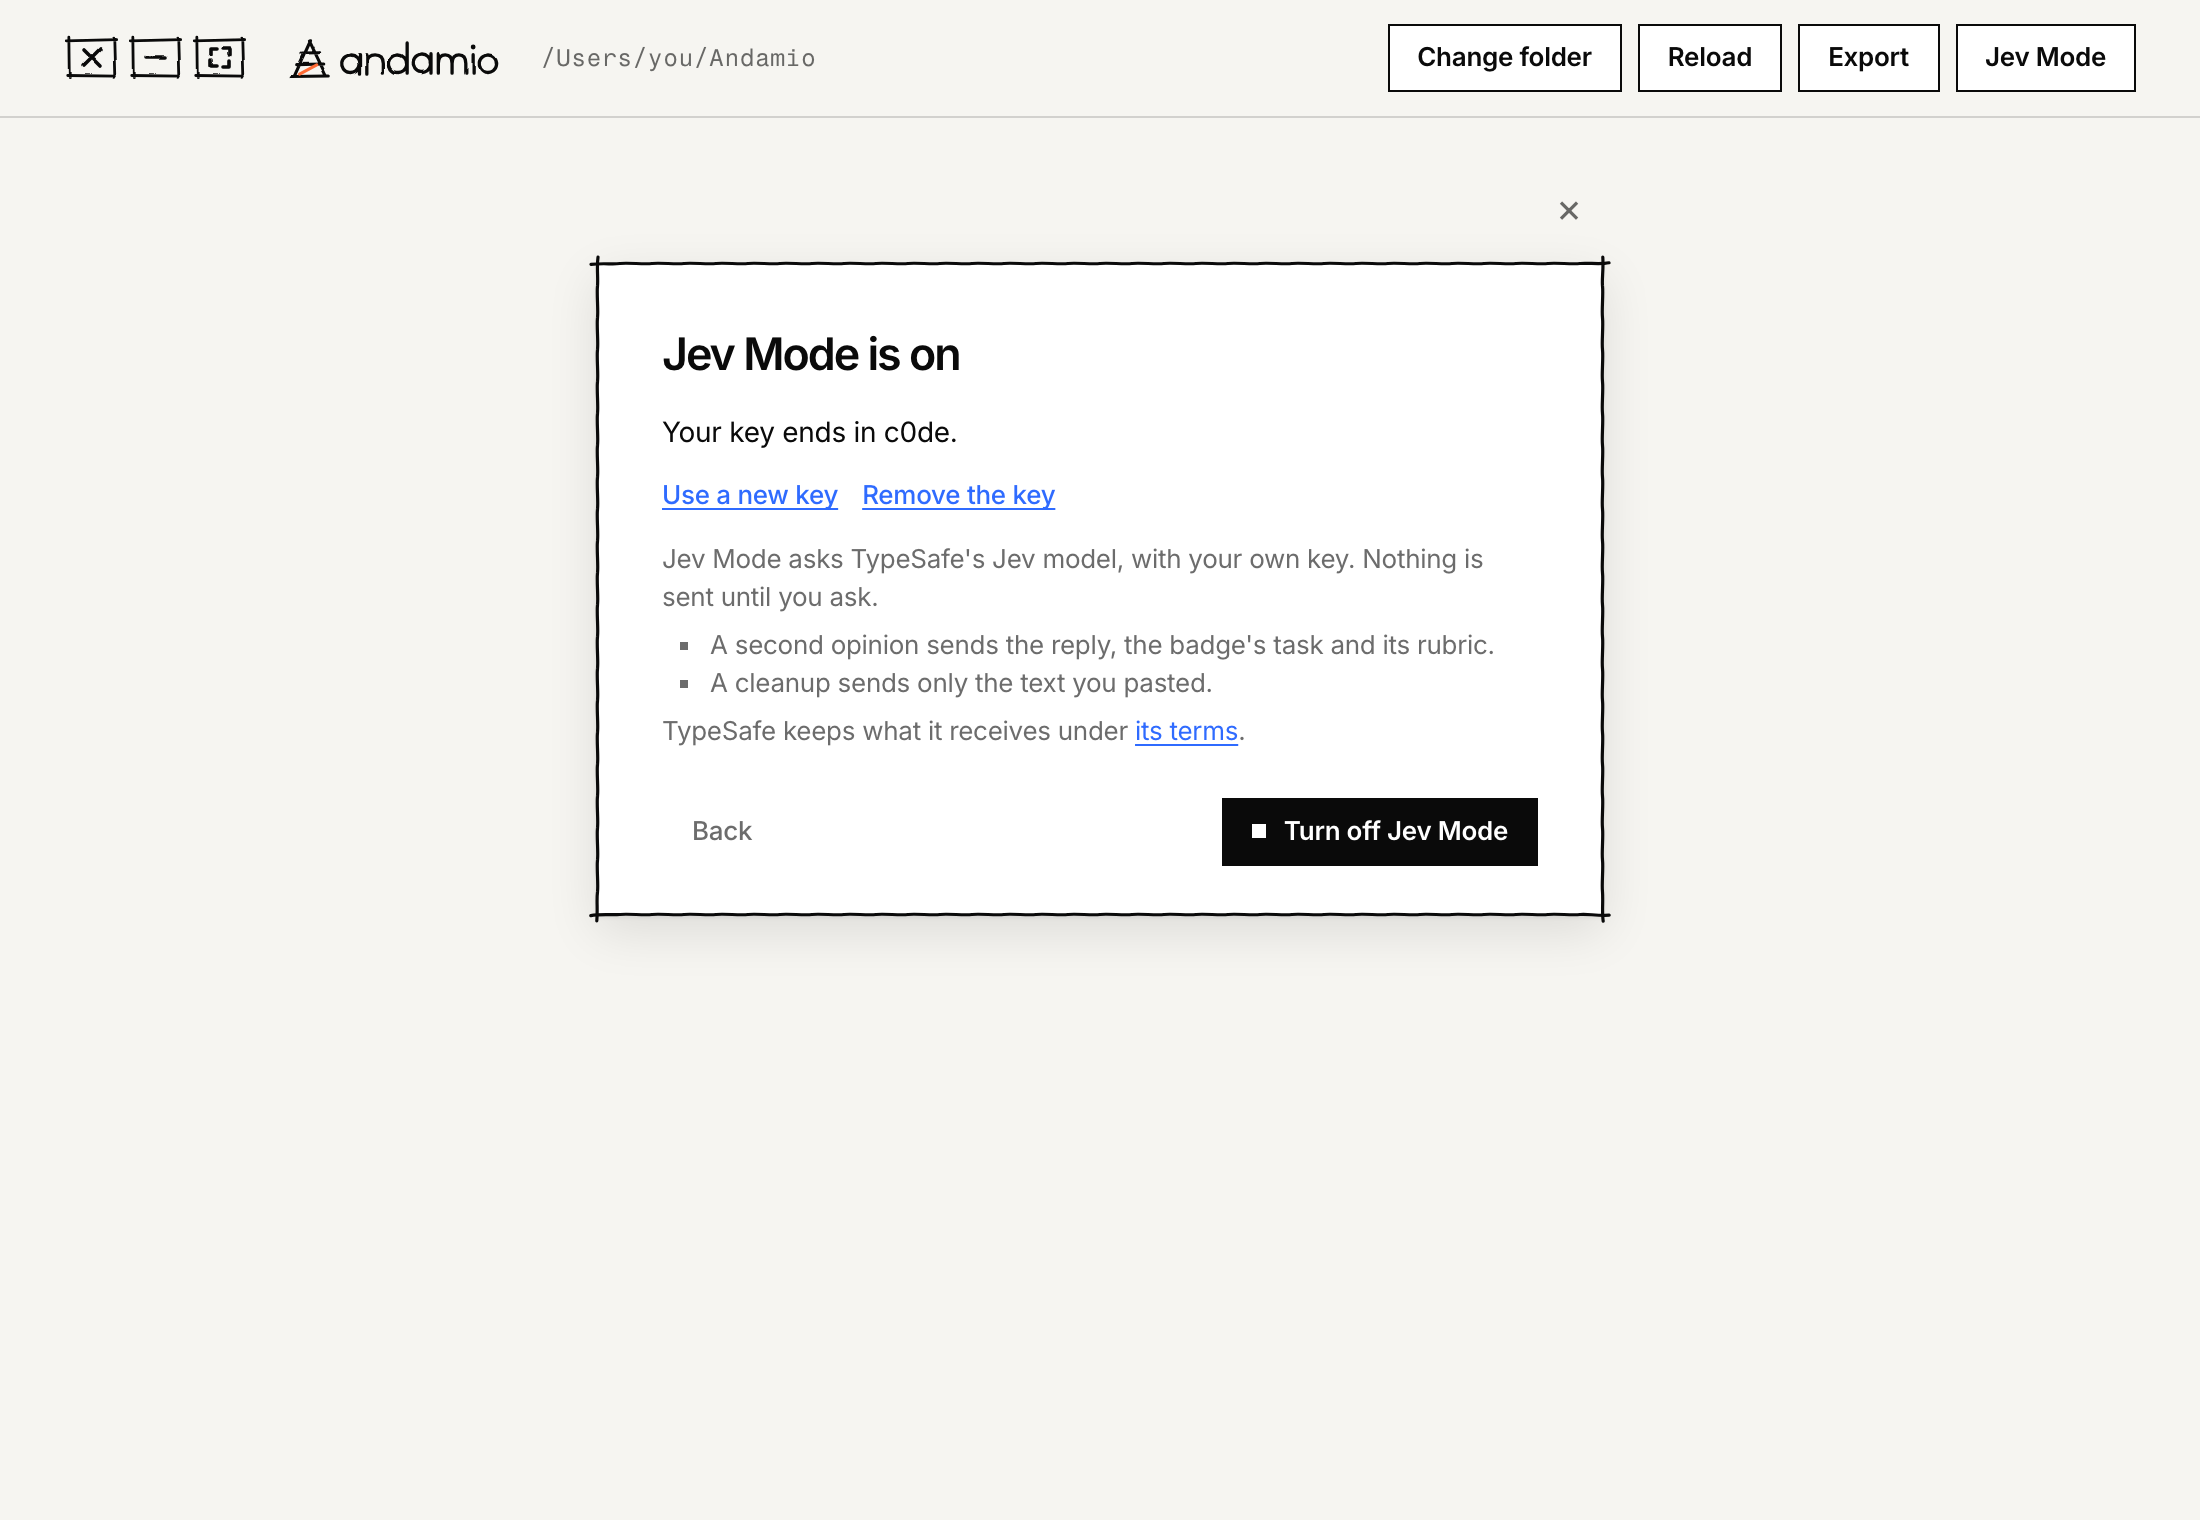
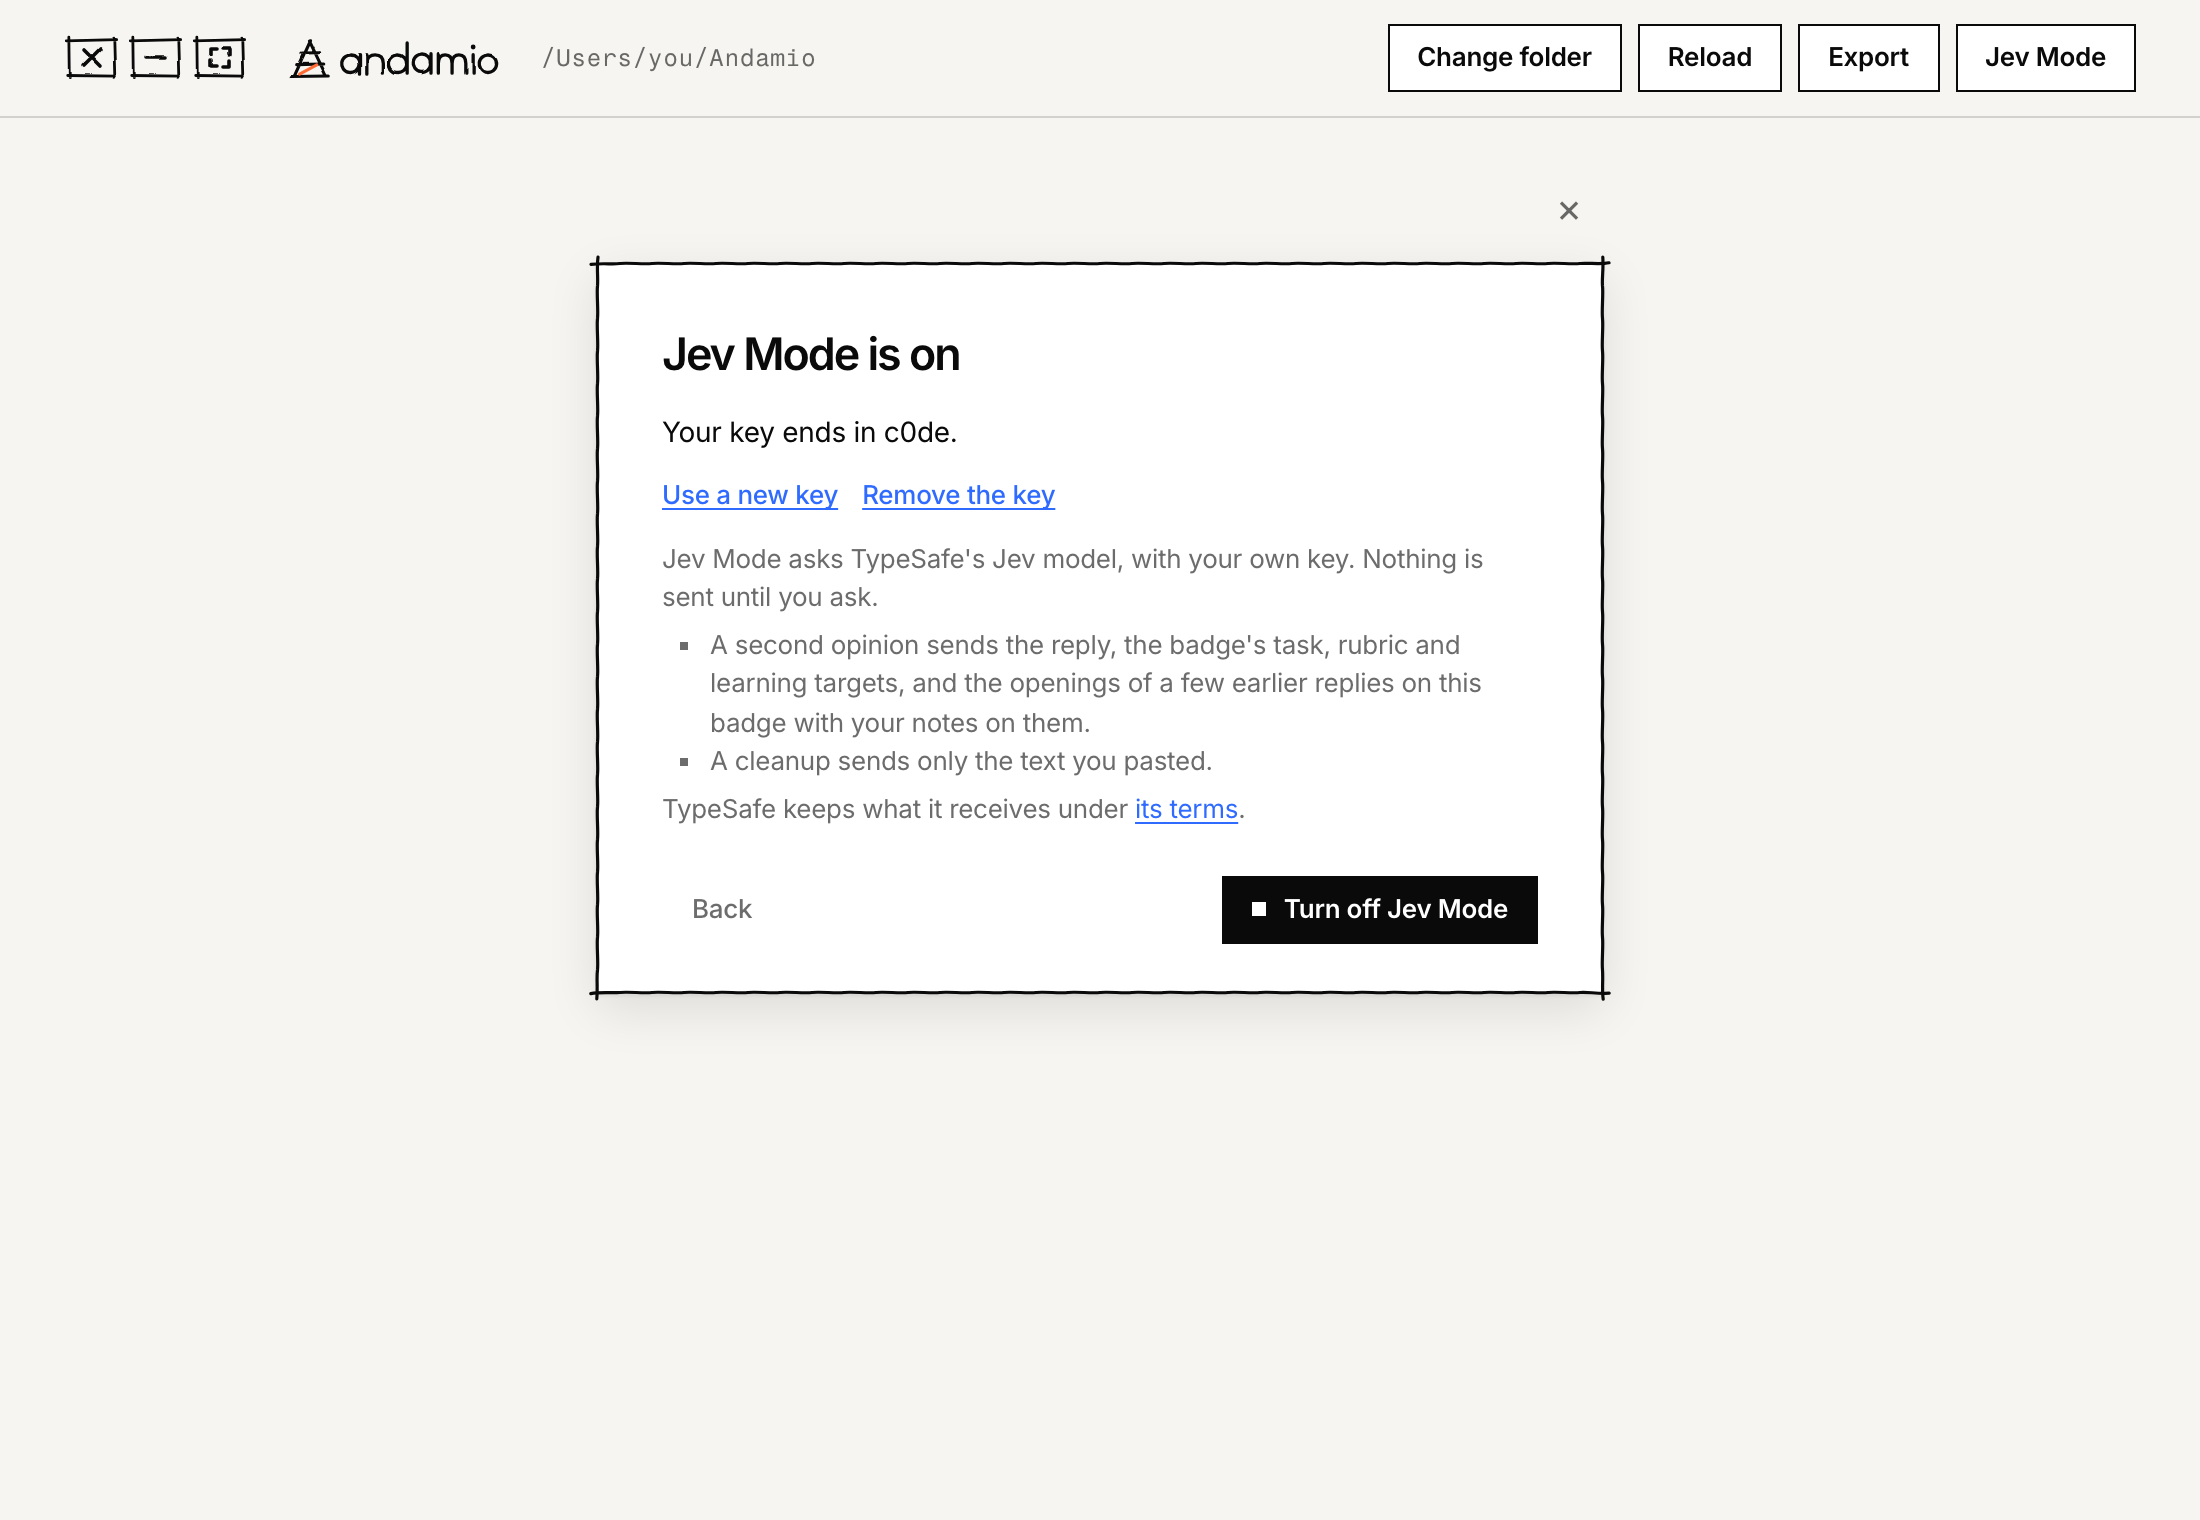
docs(site): explain calls, the track record, the missed-points and reason steps and what a second opinion sends, and reshoot the screens they changed

Changed region(s): [[0.2782, 0.402, 0.7418, 0.6184], [0.2782, 0.6493, 0.7109, 0.6803]]

diff --git a/src/shots/seed.ts b/src/shots/seed.ts
@@ -237,6 +237,8 @@ const ANSWER_KEY_CODEX_REPLY = `1. Holds. 24 trailing zeros.
 
 /** Jev's probabilities for the answer-key rubric's points, in order. */
 const ANSWER_KEY_POINTS = [0.93, 0.95, 0.9, 0.88, 0.94];
+/** Jev's chance for each of Check an answer key's learning targets: one it calls, one it can't. */
+const ANSWER_KEY_TARGETS = [0.86, 0.62];
 
 /** The skeleton handoff filled from a credential, as the test deck copies it. */
 function skeletonFor(credential: Credential): HandoffTemplate {
@@ -334,7 +336,16 @@ export async function sampleFolder(variant: SeedVariant): Promise<SampleFolder> 
     verdictChanged: false,
     overall: 0.91,
     points: points.map((text, i) => ({ text, probability: ANSWER_KEY_POINTS[i % ANSWER_KEY_POINTS.length] })),
+    targets: answerKey.learningTargets.map((text, i) => ({ text, probability: ANSWER_KEY_TARGETS[i % ANSWER_KEY_TARGETS.length] })),
+    examplesSent: 0,
   };
+  // Codex's Not yet on Say how sure you are names the two points its note is about.
+  const howSurePoints = rubricParts(howSure.rubric).points;
+  const howSureMissed = ["Questions 2 and 6", "No wrong answer"].map((start) => {
+    const point = howSurePoints.find((p) => p.startsWith(start));
+    if (!point) throw new Error(`Say how sure you are's rubric needs a point starting "${start}".`);
+    return point;
+  });
 
   const results: Assessment[] = [
     await take(CLAUDE, whatNext, SAMPLE.takes.claudeWhatNext, {
@@ -350,7 +361,7 @@ export async function sampleFolder(variant: SeedVariant): Promise<SampleFolder> 
       copiedAt: "2026-09-25T09:41:00.000Z",
       note: "Gave one answer to questions 2 and 6, each above 50%.",
       handBack: HOW_SURE_NOT_MET_REPLY,
-    }),
+    }).then((a) => ({ ...a, missedPoints: howSureMissed })),
     await take(CLAUDE, howSure, SAMPLE.takes.claudeHowSure, {
       result: "met",
       recordedAt: "2026-09-26T16:45:00.000Z",

diff --git a/src/shots/shots.ts b/src/shots/shots.ts
@@ -412,6 +412,22 @@ export const SHOTS: readonly Shot[] = [
     expect: { selector: ".compare-panes" },
   },
   {
+    // After Not yet, the test asks which of the rubric's points the reply missed, none pressed.
+    id: "missed-points",
+    page: "how-to/judge-a-reply",
+    route: RELEASE_TEST,
+    seed: "full",
+    jev: "off",
+    expect: { text: "Which points did it miss" },
+    steps: [
+      ...RELEASE_TO_REPLY,
+      { click: { button: "Next" } },
+      { waitFor: { text: "Did it meet it" } },
+      { click: { button: "Not yet" } },
+      { waitFor: { text: "Which points did it miss" } },
+    ],
+  },
+  {
     // Claude Code takes Write a release note and its reply is held: the screen after holding.
     id: "held",
     page: "how-to/run-a-bake-off",
@@ -555,7 +571,7 @@ export const COVERAGE: Record<RouteKind, readonly string[] | typeof NOT_PICTURED
   home: ["home-empty", "home", "home-needs"],
   "deck:credential": ["credential-start", "credential-target"],
   "deck:agent": ["first-test-agent", "first-test-hand", "first-test-judge", "first-test-home", "agent-new"],
-  "deck:test": ["test-hand", "test-reply", "judge", "go-to-offer", "held", "jev-ask", "jev-cleanup"],
+  "deck:test": ["test-hand", "test-reply", "judge", "go-to-offer", "missed-points", "held", "jev-ask", "jev-cleanup"],
   "deck:edit-credential": ["edit-retest", "paste-image"],
   "deck:edit-agent": ["agent-params"],
   "deck:handoffs": ["handoffs-box"],

diff --git a/src/shots/seed.test.ts b/src/shots/seed.test.ts
@@ -86,6 +86,17 @@ describe("the full sample folder", () => {
     expect(state.assessments.filter((a) => a.jev)).toHaveLength(1);
   });
 
+  it("gives the saved reading its learning targets and examples sent, and one Not met result the points it missed", async () => {
+    const { state } = await loadSample("full");
+    const reading = state.assessments.find((a) => a.jev)?.jev;
+    expect(reading?.targets?.map((t) => t.probability)).toEqual([0.86, 0.62]);
+    expect(reading?.examplesSent).toBe(0);
+    const missed = state.assessments.filter((a) => a.missedPoints);
+    expect(missed).toHaveLength(1);
+    expect(missed[0]).toMatchObject({ result: "not_met", profileSlug: SAMPLE.agents.codex });
+    expect(missed[0].missedPoints?.map((p) => p.slice(0, 16))).toEqual(["Questions 2 and ", "No wrong answer "]);
+  });
+
   it("matches every result's assignment version to its credential, so nothing reads task changed", async () => {
     const { state } = await loadSample("full");
     for (const a of state.assessments) {
